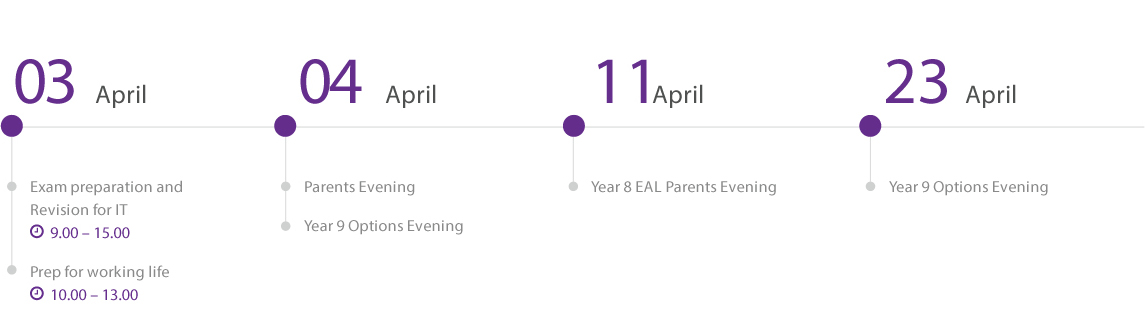
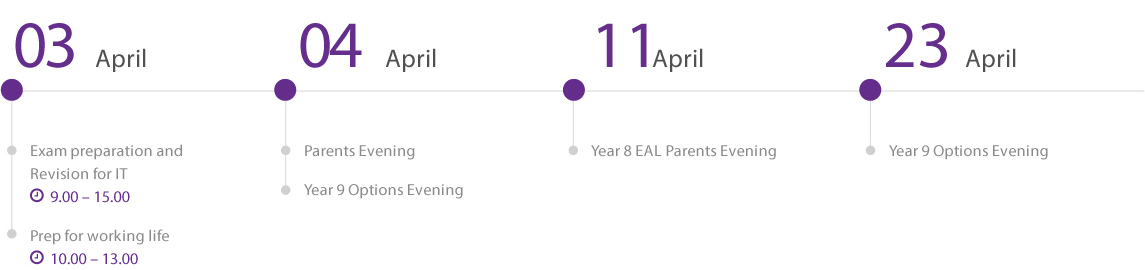
responsive edits

diff --git a/src/style/components/c-calender.scss b/src/style/components/c-calender.scss
@@ -29,10 +29,10 @@
   
   &__inner {
     background:#fff;
-    height: 90vh;
+    height: 70vh;
 
     &-container {
-      padding: 4em;
+      padding: 2em 4em;
     }
 
     &-title {
@@ -44,12 +44,33 @@
 
     &-image {
       background-image: url('../images/calender.jpg');
-      height: 50vh;
+      height: 45vh;
       background-position: center center;
       background-repeat: no-repeat;
-      object-fit: cover;
-      background-size: cover;
-      background-size: 75vw;
+      background-position: top left;
+      background-size: 100%;
+    }
+  }
+}
+
+@media screen and (max-width: 845px) {
+  .c-calender {
+    
+    &__inner {
+      height: 60vh;
+
+      &-container {
+        padding: 1em 2em;
+      }
+    }
+  }
+}
+
+@media screen and (max-width: 540px) {
+  .c-calender {
+    
+    &__inner {
+      height: 50vh;
     }
   }
 }

diff --git a/src/style/components/c-carousel.scss b/src/style/components/c-carousel.scss
@@ -119,7 +119,7 @@
     height: auto;
 
     &-container {
-      padding: 2em;
+      padding: 1em;
     }
 
     &-grid {
